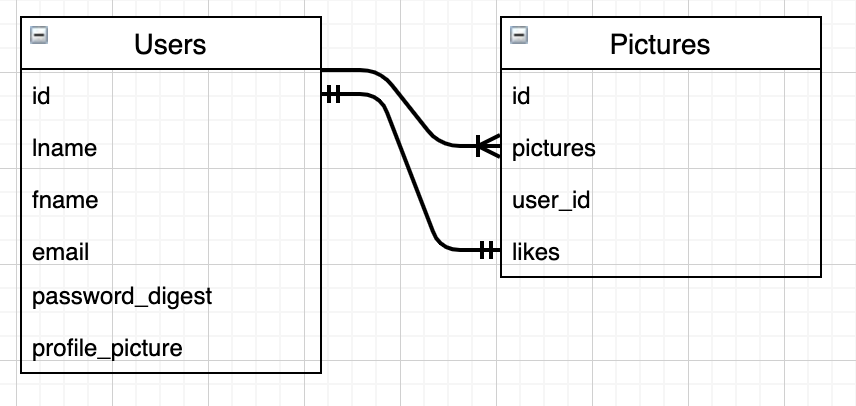
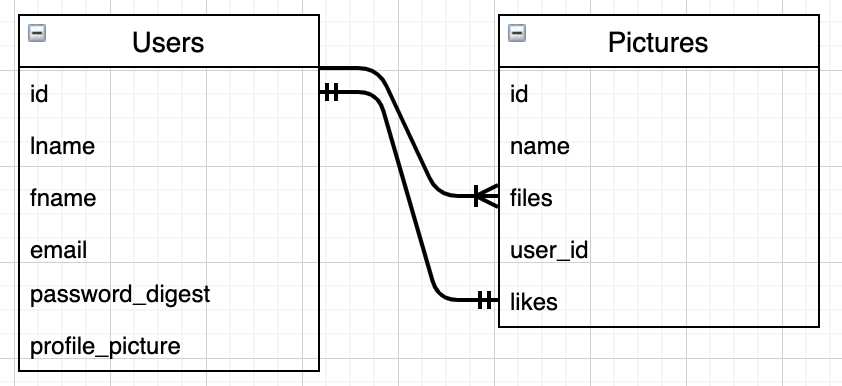
nav bar log out show only if loged in

Changed region(s): [[0.0, 0.0311, 1.0, 0.9637], [0.4632, 0.8705, 0.4941, 0.9326], [0.2162, 0.6218, 0.247, 0.6839]]

diff --git a/app/assets/stylesheets/pictures.scss b/app/assets/stylesheets/pictures.scss
@@ -1,0 +1,3 @@
+// Place all the styles related to the Pictures controller here.
+// They will automatically be included in application.css.
+// You can use Sass (SCSS) here: https://sass-lang.com/

diff --git a/db/schema.rb b/db/schema.rb
@@ -10,10 +10,40 @@
 #
 # It's strongly recommended that you check this file into your version control system.
 
-ActiveRecord::Schema.define(version: 2020_06_06_111356) do
+ActiveRecord::Schema.define(version: 2020_06_07_100456) do
 
   # These are extensions that must be enabled in order to support this database
   enable_extension "plpgsql"
+
+  create_table "active_storage_attachments", force: :cascade do |t|
+    t.string "name", null: false
+    t.string "record_type", null: false
+    t.bigint "record_id", null: false
+    t.bigint "blob_id", null: false
+    t.datetime "created_at", null: false
+    t.index ["blob_id"], name: "index_active_storage_attachments_on_blob_id"
+    t.index ["record_type", "record_id", "name", "blob_id"], name: "index_active_storage_attachments_uniqueness", unique: true
+  end
+
+  create_table "active_storage_blobs", force: :cascade do |t|
+    t.string "key", null: false
+    t.string "filename", null: false
+    t.string "content_type"
+    t.text "metadata"
+    t.bigint "byte_size", null: false
+    t.string "checksum", null: false
+    t.datetime "created_at", null: false
+    t.index ["key"], name: "index_active_storage_blobs_on_key", unique: true
+  end
+
+  create_table "pictures", force: :cascade do |t|
+    t.string "name"
+    t.string "files"
+    t.integer "user_id"
+    t.integer "likes"
+    t.datetime "created_at", precision: 6, null: false
+    t.datetime "updated_at", precision: 6, null: false
+  end
 
   create_table "users", force: :cascade do |t|
     t.string "fname"
@@ -24,4 +54,5 @@ ActiveRecord::Schema.define(version: 2020_06_06_111356) do
     t.datetime "updated_at", precision: 6, null: false
   end
 
+  add_foreign_key "active_storage_attachments", "active_storage_blobs", column: "blob_id"
 end

diff --git a/db/migrate/20200607085901_create_active_storage_tables.active_storage.rb b/db/migrate/20200607085901_create_active_storage_tables.active_storage.rb
@@ -1,0 +1,27 @@
+# This migration comes from active_storage (originally 20170806125915)
+class CreateActiveStorageTables < ActiveRecord::Migration[5.2]
+  def change
+    create_table :active_storage_blobs do |t|
+      t.string   :key,        null: false
+      t.string   :filename,   null: false
+      t.string   :content_type
+      t.text     :metadata
+      t.bigint   :byte_size,  null: false
+      t.string   :checksum,   null: false
+      t.datetime :created_at, null: false
+
+      t.index [ :key ], unique: true
+    end
+
+    create_table :active_storage_attachments do |t|
+      t.string     :name,     null: false
+      t.references :record,   null: false, polymorphic: true, index: false
+      t.references :blob,     null: false
+
+      t.datetime :created_at, null: false
+
+      t.index [ :record_type, :record_id, :name, :blob_id ], name: "index_active_storage_attachments_uniqueness", unique: true
+      t.foreign_key :active_storage_blobs, column: :blob_id
+    end
+  end
+end

diff --git a/spec/requests/pictures_request_spec.rb b/spec/requests/pictures_request_spec.rb
@@ -1,0 +1,33 @@
+require 'rails_helper'
+
+RSpec.describe "Pictures", type: :request do
+
+  describe "GET /new" do
+    it "returns http success" do
+      get "/pictures/new"
+      expect(response).to have_http_status(:success)
+    end
+  end
+
+  describe "GET /create" do
+    it "returns http success" do
+      get "/pictures/create"
+      expect(response).to have_http_status(:success)
+    end
+  end
+
+  describe "GET /update" do
+    it "returns http success" do
+      get "/pictures/update"
+      expect(response).to have_http_status(:success)
+    end
+  end
+
+  describe "GET /destroy" do
+    it "returns http success" do
+      get "/pictures/destroy"
+      expect(response).to have_http_status(:success)
+    end
+  end
+
+end

diff --git a/spec/helpers/pictures_helper_spec.rb b/spec/helpers/pictures_helper_spec.rb
@@ -1,0 +1,15 @@
+require 'rails_helper'
+
+# Specs in this file have access to a helper object that includes
+# the PicturesHelper. For example:
+#
+# describe PicturesHelper do
+#   describe "string concat" do
+#     it "concats two strings with spaces" do
+#       expect(helper.concat_strings("this","that")).to eq("this that")
+#     end
+#   end
+# end
+RSpec.describe PicturesHelper, type: :helper do
+  pending "add some examples to (or delete) #{__FILE__}"
+end

diff --git a/config/routes.rb b/config/routes.rb
@@ -1,4 +1,8 @@
 Rails.application.routes.draw do
+  get 'pictures/new'
+  get 'pictures/create'
+  get 'pictures/update'
+  get 'pictures/destroy'
   root 'users#index'
   
   get '/signup', to: 'users#new'
@@ -7,7 +11,8 @@ Rails.application.routes.draw do
   get '/sessions/:id', to: 'sessions#new'
   get '/destroy', to: 'sessions#destroy'
   post 'sessions/create', to: 'sessions#create'
-
   resources :sessions
+
+  get '/posts', to: 'pictures#index'
 
 end

diff --git a/spec/features/user_able_to_post_spec.rb b/spec/features/user_able_to_post_spec.rb
@@ -1,0 +1,11 @@
+require 'rails_helper'
+
+feature 'User able to log in to instagram' do
+  scenario 'able to log in' do
+    user = User.create(fname: 'Jon', lname: 'Doe', email: 'john.doe@example.com', password: 'password')
+    visit('/posts')
+    click_link 'Post'
+    
+    expect(page).to have_content "Welcome #{user.fname} #{user.lname}"
+  end
+end

diff --git a/db/migrate/20200607100456_create_pictures.rb b/db/migrate/20200607100456_create_pictures.rb
@@ -1,0 +1,12 @@
+class CreatePictures < ActiveRecord::Migration[6.0]
+  def change
+    create_table :pictures do |t|
+      t.string :name
+      t.string :files
+      t.integer :user_id
+      t.integer :likes
+
+      t.timestamps
+    end
+  end
+end

diff --git a/app/controllers/pictures_controller.rb b/app/controllers/pictures_controller.rb
@@ -1,0 +1,16 @@
+class PicturesController < ApplicationController
+  def new
+  end
+
+  def create
+  end
+
+  def index
+  end
+
+  def update
+  end
+
+  def destroy
+  end
+end

diff --git a/spec/views/pictures/destroy.html.erb_spec.rb b/spec/views/pictures/destroy.html.erb_spec.rb
@@ -1,0 +1,5 @@
+require 'rails_helper'
+
+RSpec.describe "pictures/destroy.html.erb", type: :view do
+  pending "add some examples to (or delete) #{__FILE__}"
+end

diff --git a/spec/views/pictures/create.html.erb_spec.rb b/spec/views/pictures/create.html.erb_spec.rb
@@ -1,0 +1,5 @@
+require 'rails_helper'
+
+RSpec.describe "pictures/create.html.erb", type: :view do
+  pending "add some examples to (or delete) #{__FILE__}"
+end

diff --git a/spec/views/pictures/update.html.erb_spec.rb b/spec/views/pictures/update.html.erb_spec.rb
@@ -1,0 +1,5 @@
+require 'rails_helper'
+
+RSpec.describe "pictures/update.html.erb", type: :view do
+  pending "add some examples to (or delete) #{__FILE__}"
+end
